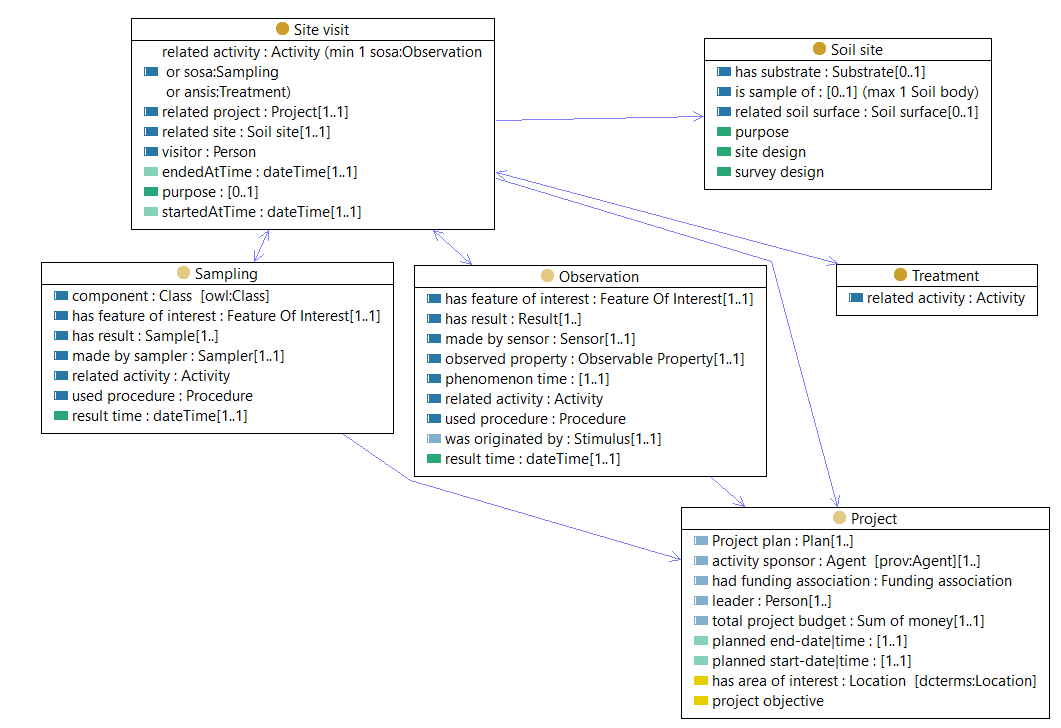
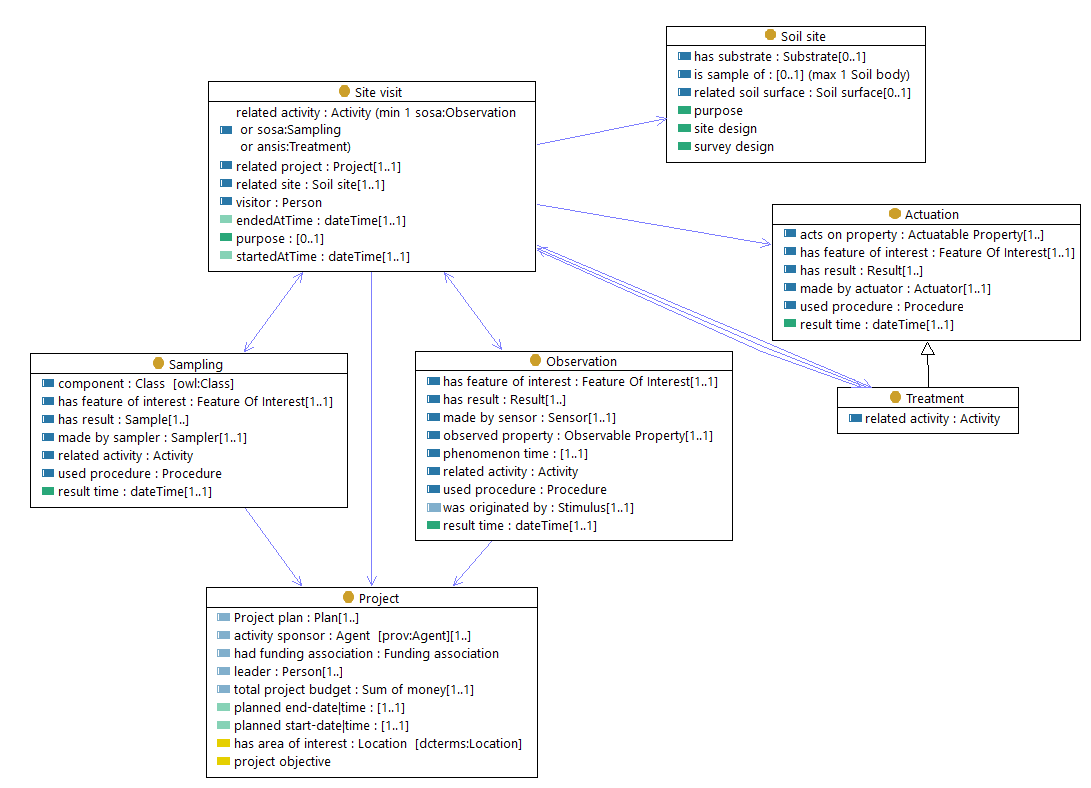
Diagrams for SOSA components

diff --git a/doc/domain.html b/doc/domain.html
@@ -512,6 +512,10 @@ The value space of most properties are encoded as controlled vocabularies hosted
                 </td>
             </tr>
             <tr>
+                <th>Class diagram</th>
+                <td><img alt="Actuation - class diagram" src="../fig/Actuation.png"/></td>
+            </tr>
+            <tr>
                 <th>Example(s)</th>
                 <td>
                     <pre>The activity of automatically closing a window if the temperature in a room drops below 20 degree Celsius. The activity is the Actuation and the device that closes the window is the Actuator. The Procedure is the rule, plan, or specification that defines the conditions that triggers the Actuation, here a drop in temperature. </pre><br/>
@@ -617,6 +621,10 @@ The value space of most properties are encoded as controlled vocabularies hosted
                 <td>
                     <p>Act of carrying out an (Observation) Procedure to estimate or calculate a value of a property of a FeatureOfInterest. Links to a Sensor to describe what made the Observation and how; links to an ObservableProperty to describe what the result is an estimate of, and to a FeatureOfInterest to detail what that property was associated with.</p>
                 </td>
+            </tr>
+            <tr>
+                <th>Class diagram</th>
+                <td><img alt="Observation - class diagram" src="../fig/Observation.png"/></td>
             </tr>
             <tr>
                 <th>Example(s)</th>
@@ -776,6 +784,10 @@ The value space of most properties are encoded as controlled vocabularies hosted
                 <td>
                     <p>An act of Sampling carries out a sampling Procedure to create or transform one or more samples.</p>
                 </td>
+            </tr>
+            <tr>
+                <th>Class diagram</th>
+                <td><img alt="Sampling - class diagram" src="../fig/Sampling.png"/></td>
             </tr>
             <tr>
                 <th>Example(s)</th>
@@ -2784,6 +2796,10 @@ Samples are taken from profiles, and observations made on those samples in order
                 <td>
                     <p>Intervention or treatment</p>
                 </td>
+            </tr>
+            <tr>
+                <th>Class diagram</th>
+                <td><img alt="Actuation - class diagram" src="../fig/Actuation.png"/></td>
             </tr>
             <tr>
                 <th>Super-classes</th>
